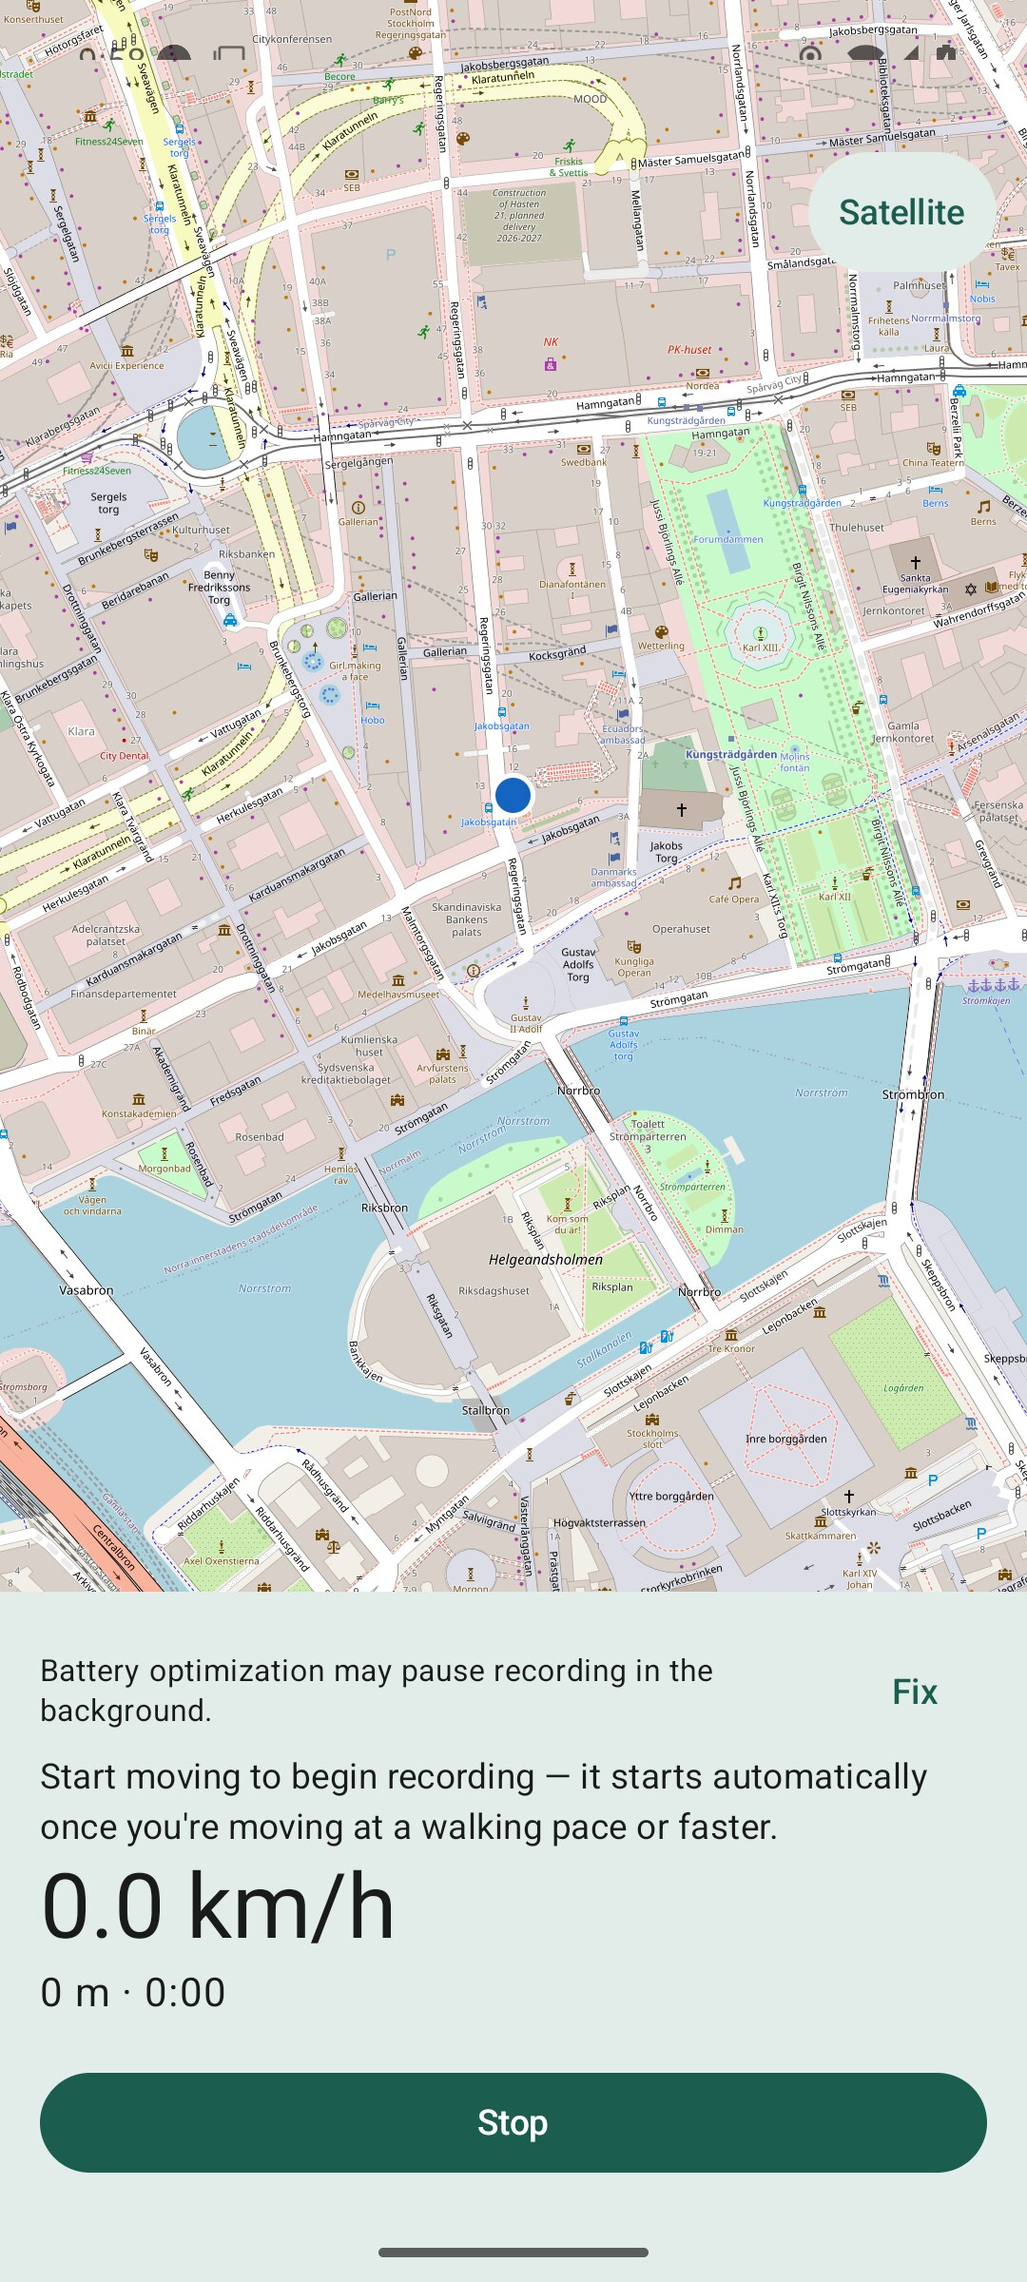
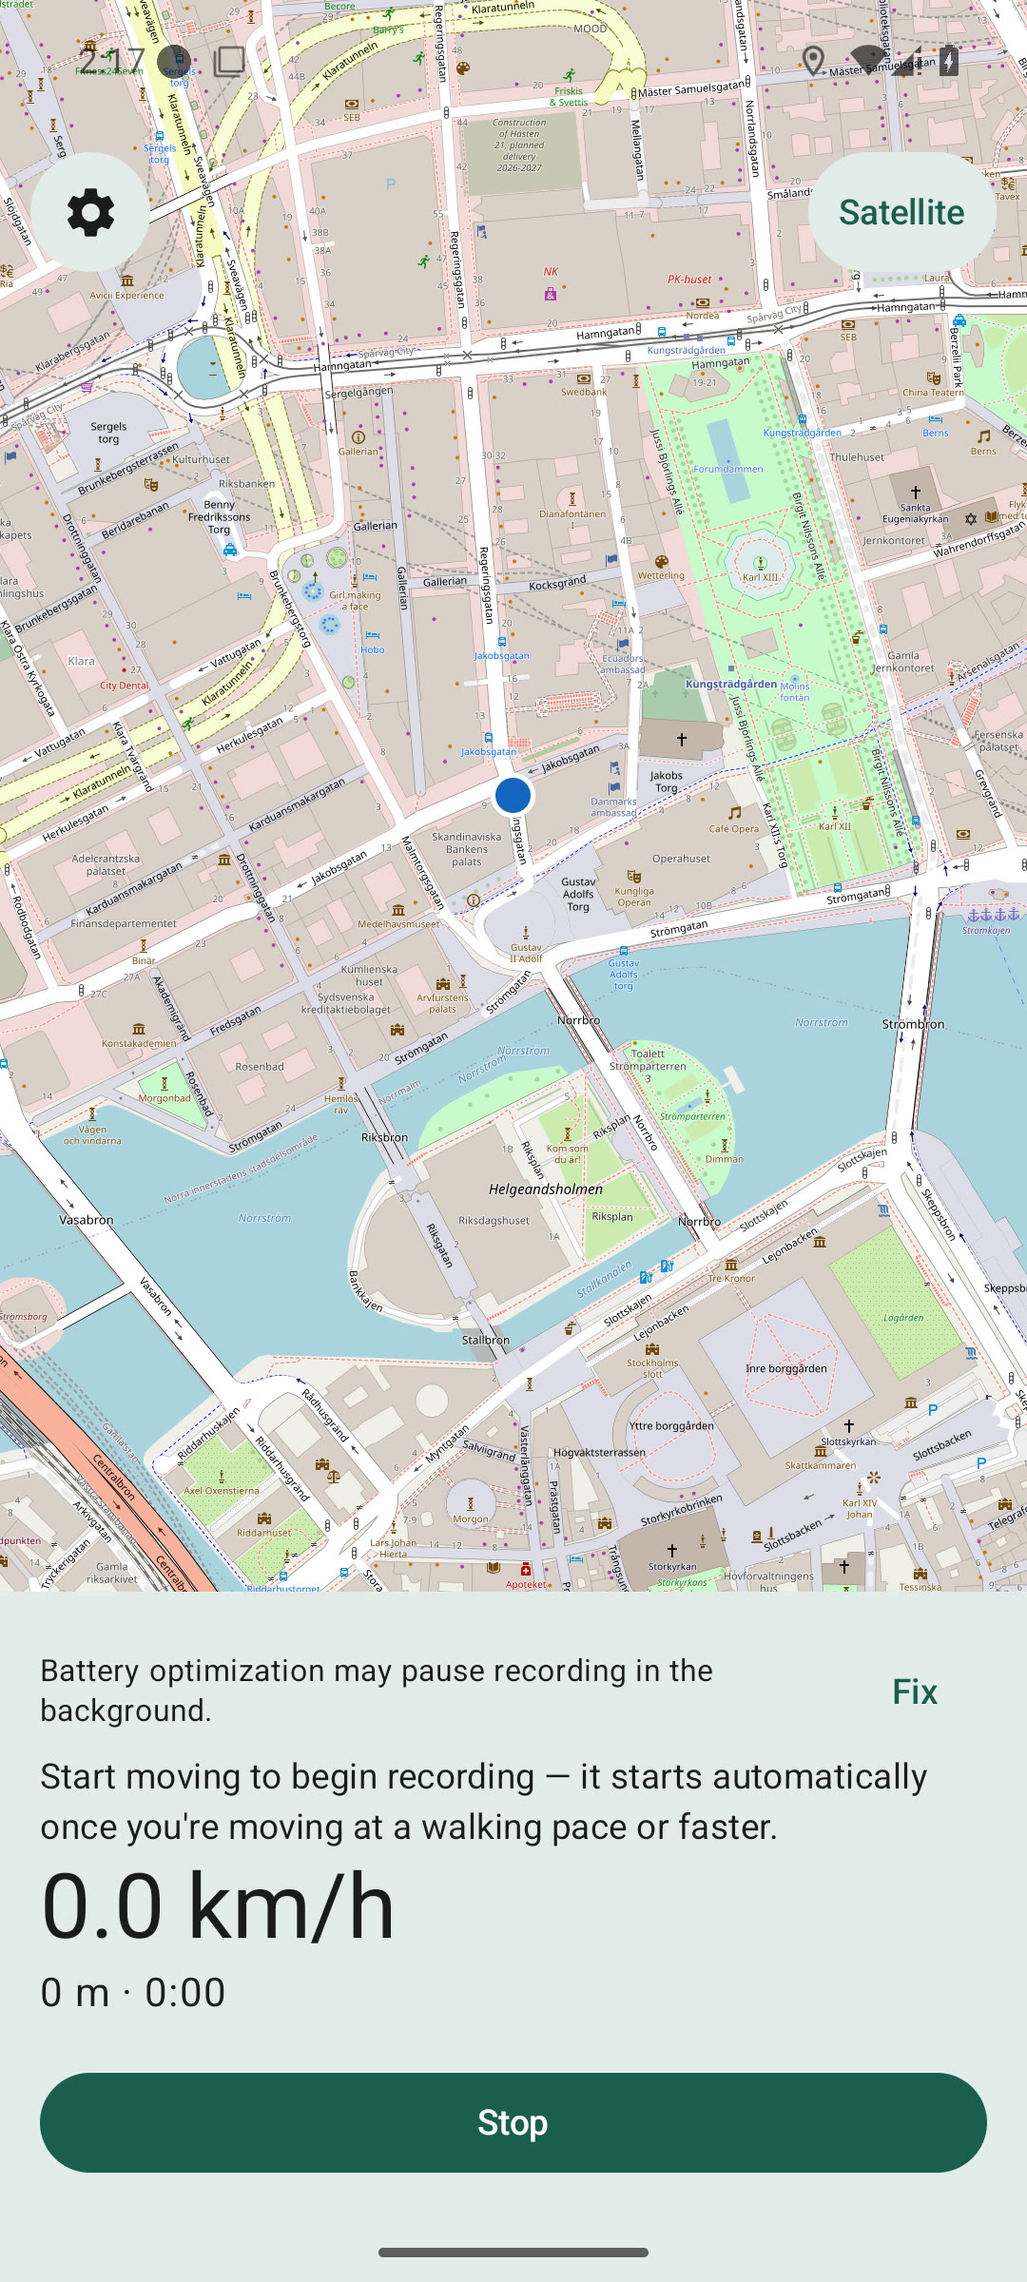
feat(android): show average and fastest km time on Tracking/Detail
Closes #119: Tracking's live stats panel now shows the fastest complete
km alongside the latest one, and Detail's summary shows the session's
average time per kilometer plus its fastest, both derived from the same
km-splits math Km splits already used, just surfaced without opening it.

Also closes #116's follow-up label-clarity request: the voice feedback
settings switches "Average speed"/"Steps" are relabeled "Average speed
per kilometer"/"Steps per kilometer" so they read unambiguously as
per-km values.

Adds the voice feedback settings screen (missed in #118) and the new
Tracking/Detail stats to docs/user-manual.md, and regenerates every
screenshot via a full ScreenshotTest run (see #76 on why partial
refreshes go stale).

diff --git a/android/app/src/main/java/com/github/tomasbjerre/wisp/ui/detail/DetailScreen.kt b/android/app/src/main/java/com/github/tomasbjerre/wisp/ui/detail/DetailScreen.kt
@@ -48,6 +48,7 @@ import com.github.tomasbjerre.wisp.ui.Formatting
 import com.github.tomasbjerre.wisp.ui.common.MapType
 import com.github.tomasbjerre.wisp.ui.common.MapTypeToggle
 import com.github.tomasbjerre.wisp.ui.common.RouteMap
+import com.github.tomasbjerre.wisp.ui.splits.KmSplitRows
 import org.osmdroid.views.MapView
 
 /** See specs/ui-flows.md#3-detail-a-past-or-just-finished-session. */
@@ -97,7 +98,7 @@ fun DetailScreen(
 
             SessionSummaryPanel(
                 session = session,
-                kmSplitCount = kmSplitsSeconds.size,
+                kmSplitsSeconds = kmSplitsSeconds,
                 onOpenKmSplits = onOpenKmSplits,
                 onBack = onBack,
                 onExportImage = {
@@ -168,7 +169,7 @@ private fun DetailMap(
 @Composable
 private fun SessionSummaryPanel(
     session: Session?,
-    kmSplitCount: Int,
+    kmSplitsSeconds: List<Long>,
     onOpenKmSplits: () -> Unit,
     onBack: () -> Unit,
     onExportImage: () -> Unit,
@@ -187,16 +188,19 @@ private fun SessionSummaryPanel(
             val stepsPerMinute = Formatting.stepsPerMinute(session.steps, session.durationSeconds)
             Text(stepsPerMinute, style = MaterialTheme.typography.bodyLarge)
         }
+        // See specs/tracking.md#km-splits. Omitted entirely with no complete km at all,
+        // same reasoning as the steps line above.
+        paceLine(kmSplitsSeconds)?.let { Text(it, style = MaterialTheme.typography.bodyLarge) }
         // See specs/ui-flows.md#4-km-splits: the splits themselves live on their own
         // view (#86) — a list squeezed in here left room for only a few rows, and took
         // that room from the map. Omitted entirely under 1 km, not just disabled.
-        if (kmSplitCount > 0) {
+        if (kmSplitsSeconds.isNotEmpty()) {
             TextButton(
                 onClick = onOpenKmSplits,
                 contentPadding = PaddingValues(0.dp),
                 modifier = Modifier.padding(top = 4.dp),
             ) {
-                Text("Km splits ($kmSplitCount)")
+                Text("Km splits (${kmSplitsSeconds.size})")
                 Icon(Icons.AutoMirrored.Filled.KeyboardArrowRight, contentDescription = null)
             }
         }
@@ -267,3 +271,11 @@ private fun distanceAndDurationLine(session: Session?): String =
 
 private fun speedsLine(session: Session?): String =
     session?.let { "Avg ${Formatting.speedKmh(it.averageSpeedMps)} · Max ${Formatting.speedKmh(it.maxSpeedMps)}" } ?: ""
+
+/** See specs/tracking.md#km-splits. Null with no complete km at all — nothing to say. */
+private fun paceLine(kmSplitsSeconds: List<Long>): String? {
+    val average = KmSplitRows.averageSeconds(kmSplitsSeconds) ?: return null
+    val fastest = KmSplitRows.fastestSeconds(kmSplitsSeconds)
+    val fastestPart = fastest?.let { " · Fastest ${Formatting.duration(it)}/km" } ?: ""
+    return "Avg ${Formatting.duration(average)}/km$fastestPart"
+}

diff --git a/android/app/src/androidTest/java/com/github/tomasbjerre/wisp/ScreenshotTest.kt b/android/app/src/androidTest/java/com/github/tomasbjerre/wisp/ScreenshotTest.kt
@@ -4,6 +4,7 @@ import androidx.compose.ui.test.junit4.createAndroidComposeRule
 import androidx.compose.ui.test.onAllNodesWithTag
 import androidx.compose.ui.test.onAllNodesWithText
 import androidx.compose.ui.test.onFirst
+import androidx.compose.ui.test.onNodeWithContentDescription
 import androidx.compose.ui.test.onNodeWithText
 import androidx.compose.ui.test.performClick
 import androidx.test.ext.junit.runners.AndroidJUnit4
@@ -127,6 +128,18 @@ class ScreenshotTest {
         composeRule.waitForIdle()
     }
 
+    /**
+     * See specs/ui-flows.md#2a-voice-feedback-settings. Unnumbered, same reasoning as
+     * captureKmSplits: the Play listing slots are already spent by "4-tracking-recording".
+     */
+    private fun captureVoiceFeedbackSettings() {
+        composeRule.onNodeWithContentDescription("Voice feedback settings").performClick()
+        composeRule.waitForIdle()
+        screenshot("tracking-voice-feedback-settings")
+        composeRule.onNodeWithContentDescription("Back").performClick()
+        composeRule.waitForIdle()
+    }
+
     private fun captureTrackingStates() {
         // isRecording is true for the whole life of a session (see TrackingService.start)
         // — isLocating and isWaitingForMovement are what actually distinguish these
@@ -152,6 +165,8 @@ class ScreenshotTest {
         }
         composeRule.waitForIdle()
         screenshot("4-tracking-recording")
+
+        captureVoiceFeedbackSettings()
 
         // Satellite map toggle (specs/ui-flows.md#2-tracking-active-recording).
         composeRule.onNodeWithText("Satellite").performClick()

diff --git a/android/app/src/main/java/com/github/tomasbjerre/wisp/ui/splits/KmSplitRows.kt b/android/app/src/main/java/com/github/tomasbjerre/wisp/ui/splits/KmSplitRows.kt
@@ -1,6 +1,7 @@
 package com.github.tomasbjerre.wisp.ui.splits
 
 import com.github.tomasbjerre.wisp.util.GeoUtils
+import kotlin.math.roundToLong
 
 /** One row of the Km splits view — see specs/ui-flows.md#4-km-splits. */
 data class KmSplitRow(
@@ -60,6 +61,26 @@ object KmSplitRows {
         val slowest = seconds.indices.maxBy { seconds[it] }
         return KmSplitExtremes(fastest + 1, seconds[fastest], slowest + 1, seconds[slowest])
     }
+
+    /**
+     * The fastest complete kilometer's own time — same "fewer than two complete
+     * kilometers, nothing to compare" rule as [extremes], just without needing the
+     * partial km around to prove it's excluded. Used where only the km number, not
+     * which km it was, is shown (live on Tracking, and in Detail's summary — see
+     * specs/tracking.md#km-splits).
+     */
+    fun fastestSeconds(completeSeconds: List<Long>): Long? {
+        if (completeSeconds.size < 2) return null
+        return completeSeconds.min()
+    }
+
+    /**
+     * The average time per complete kilometer — null with no complete kilometers at
+     * all. Unlike [fastestSeconds], one complete km is enough to average (there's
+     * nothing to compare it against, but it's still a real per-km time).
+     */
+    fun averageSeconds(completeSeconds: List<Long>): Long? =
+        if (completeSeconds.isEmpty()) null else completeSeconds.average().roundToLong()
 
     private fun speedMps(
         meters: Double,

diff --git a/android/app/src/test/java/com/github/tomasbjerre/wisp/ui/splits/KmSplitRowsTest.kt b/android/app/src/test/java/com/github/tomasbjerre/wisp/ui/splits/KmSplitRowsTest.kt
@@ -70,4 +70,25 @@ class KmSplitRowsTest {
     fun `fewer than two complete km has nothing to compare`() {
         assertThat(KmSplitRows.extremes(GeoUtils.KmSplits(listOf(300L), GeoUtils.PartialSplit(500.0, 100L)))).isNull()
     }
+
+    @Test
+    fun `fastest seconds is the lowest complete km duration`() {
+        assertThat(KmSplitRows.fastestSeconds(listOf(310L, 290L, 330L))).isEqualTo(290L)
+    }
+
+    @Test
+    fun `fastest seconds is null with fewer than two complete km`() {
+        assertThat(KmSplitRows.fastestSeconds(listOf(300L))).isNull()
+        assertThat(KmSplitRows.fastestSeconds(emptyList())).isNull()
+    }
+
+    @Test
+    fun `average seconds rounds the mean of every complete km`() {
+        assertThat(KmSplitRows.averageSeconds(listOf(300L, 250L, 260L))).isEqualTo(270L)
+    }
+
+    @Test
+    fun `average seconds is null with no complete km at all`() {
+        assertThat(KmSplitRows.averageSeconds(emptyList())).isNull()
+    }
 }

diff --git a/android/app/src/main/java/com/github/tomasbjerre/wisp/location/TrackingService.kt b/android/app/src/main/java/com/github/tomasbjerre/wisp/location/TrackingService.kt
@@ -14,6 +14,7 @@ import androidx.lifecycle.lifecycleScope
 import com.github.tomasbjerre.wisp.MainActivity
 import com.github.tomasbjerre.wisp.R
 import com.github.tomasbjerre.wisp.WispApplication
+import com.github.tomasbjerre.wisp.ui.splits.KmSplitRows
 import com.github.tomasbjerre.wisp.util.GeoUtils
 import kotlinx.coroutines.CoroutineScope
 import kotlinx.coroutines.Dispatchers
@@ -236,6 +237,7 @@ class TrackingService : LifecycleService() {
                     route = points.map { p -> LatLon(p.latitude, p.longitude) },
                     steps = stepRecorder.steps,
                     latestKmSplitSeconds = splits.completeSeconds.lastOrNull(),
+                    fastestKmSplitSeconds = KmSplitRows.fastestSeconds(splits.completeSeconds),
                 )
             }
             announceNewlyCompletedKm(splits)

diff --git a/android/app/src/main/java/com/github/tomasbjerre/wisp/ui/tracking/VoiceFeedbackSettingsScreen.kt b/android/app/src/main/java/com/github/tomasbjerre/wisp/ui/tracking/VoiceFeedbackSettingsScreen.kt
@@ -67,14 +67,14 @@ fun VoiceFeedbackSettingsScreen(
                 testTag = TestTags.VOICE_FEEDBACK_ANNOUNCE_KM_SWITCH,
             )
             SettingSwitchRow(
-                label = "Average speed",
+                label = "Average speed per kilometer",
                 checked = settings.announceSpeed,
                 enabled = settings.enabled,
                 onCheckedChange = preferences::setAnnounceSpeed,
                 testTag = TestTags.VOICE_FEEDBACK_ANNOUNCE_SPEED_SWITCH,
             )
             SettingSwitchRow(
-                label = "Steps",
+                label = "Steps per kilometer",
                 checked = settings.announceSteps,
                 enabled = settings.enabled,
                 onCheckedChange = preferences::setAnnounceSteps,

diff --git a/android/app/src/main/java/com/github/tomasbjerre/wisp/ui/tracking/TrackingScreen.kt b/android/app/src/main/java/com/github/tomasbjerre/wisp/ui/tracking/TrackingScreen.kt
@@ -189,6 +189,11 @@ private fun TrackingStatsPanel(
             state.latestKmSplitSeconds?.let { seconds ->
                 Text("Last km: ${Formatting.duration(seconds)}", style = MaterialTheme.typography.bodyLarge)
             }
+            // See specs/tracking.md#km-splits: null until a second complete km exists to
+            // compare against, same threshold as Detail/Km splits' fastest/slowest.
+            state.fastestKmSplitSeconds?.let { seconds ->
+                Text("Fastest km: ${Formatting.duration(seconds)}", style = MaterialTheme.typography.bodyLarge)
+            }
             TrackingControls(isPaused = state.isPaused, isWaitingForMovement = state.isWaitingForMovement)
         }
     }

diff --git a/android/app/src/main/java/com/github/tomasbjerre/wisp/location/TrackingUiState.kt b/android/app/src/main/java/com/github/tomasbjerre/wisp/location/TrackingUiState.kt
@@ -26,4 +26,7 @@ data class TrackingUiState(
     // See specs/tracking.md#km-splits. Only the most recently completed split — the
     // full list is Detail's job, live Tracking only ever needs "how was that last km".
     val latestKmSplitSeconds: Long? = null,
+    // See specs/tracking.md#km-splits. Null until a second complete km exists to compare
+    // against — same threshold as Detail/Km splits' fastest/slowest.
+    val fastestKmSplitSeconds: Long? = null,
 )

diff --git a/docs/user-manual.md b/docs/user-manual.md
@@ -80,11 +80,12 @@ A few more things on this screen:
   the map switches between the standard street map and a satellite view,
   useful for checking terrain. It resets back to the standard map next
   time you start a new activity.
-- **Steps and last km split** — once you have a step count or have
-  completed at least one kilometer, this screen also shows your current
-  steps/minute and how long that last kilometer took. (Not every phone
-  has a step-count sensor — if yours doesn't, or the permission wasn't
-  granted, this line simply doesn't appear.)
+- **Steps and km splits** — once you have a step count or have completed
+  at least one kilometer, this screen also shows your current
+  steps/minute, how long that last kilometer took, and (once you've
+  completed a second one) your fastest kilometer so far. (Not every
+  phone has a step-count sensor — if yours doesn't, or the permission
+  wasn't granted, the steps line simply doesn't appear.)
 - **Pause / Continue** — pauses recording without ending the activity;
   tap Continue to resume. Wisp also pauses automatically if you stop
   moving for a while (about 15 seconds) — same button, same behavior,
@@ -101,6 +102,20 @@ A few more things on this screen:
   (finalize the activity and navigate on) rather than silently leaving
   it running in the background — there's no way to abandon a recording
   session with a stray back tap.
+- **Voice feedback settings** — the gear icon opens a settings screen for
+  optional spoken announcements (handy with earbuds, so you get progress
+  updates without looking at your phone):
+
+  <img src="screenshots/tracking-voice-feedback-settings.jpg" alt="Voice feedback settings screen" width="300">
+
+  A master **Voice feedback** switch, off by default, plus four switches
+  for what each announcement includes: **Kilometers completed**,
+  **Average speed per kilometer**, **Steps per kilometer** (hidden when
+  your session has no step count at all), and **Elapsed time** (the
+  session's total, not just the last kilometer's). Announcements happen
+  once per completed kilometer, only while actively recording (not
+  paused). Every switch persists across app restarts and takes effect
+  immediately, even mid-session.
 
 Here's the satellite view from the toggle mentioned above:
 
@@ -121,7 +136,9 @@ just-finished:
   <img src="screenshots/detail-satellite.jpg" alt="Detail screen with the satellite map view" width="300">
 
 - **Summary stats** — date/time, nearest city, distance, duration,
-  average and max speed, and (when available) steps/minute.
+  average and max speed, (when available) steps/minute, and (once
+  you've completed at least one kilometer) your average time per
+  kilometer, plus your fastest one once you've completed a second.
 - **Km splits (N)** — opens the [Km splits](#km-splits) view, N being
   the number of complete kilometers. Shown only once you've covered at
   least 1 km.

diff --git a/specs/ui-flows.md b/specs/ui-flows.md
@@ -70,12 +70,13 @@ screen while recording.
 - A live stats panel below the map (not laid over it — see
   [Accessibility](accessibility.md#text-contrast)): current speed,
   elapsed distance, elapsed time — all zero while waiting for movement.
-  Also steps per minute (see [Tracking](tracking.md#step-count)) and the
-  most recently completed kilometer split (see
-  [Tracking](tracking.md#km-splits)) — each omitted until there's one to
-  show, same as Detail. Unlike Detail, only the latest split is shown,
-  not the full list — there's no room for a growing list on this screen,
-  and "how was that last km" is what's actually useful mid-run.
+  Also steps per minute (see [Tracking](tracking.md#step-count)), the
+  most recently completed kilometer split, and the fastest complete km
+  so far (see [Tracking](tracking.md#km-splits)) — each omitted until
+  there's one to show, same as Detail. Unlike Detail, only the latest
+  and fastest splits are shown, not the full list — there's no room for
+  a growing list on this screen, and "how was that last km, and is it
+  my best one" is what's actually useful mid-run.
 - A **Pause**/**Continue** control (labeled Continue while paused) and a
   **Stop** control, both visible together at all times once recording has
   actually started — recording or paused, it's always exactly these two
@@ -106,7 +107,8 @@ full contract.
   same).
 - A **Voice feedback** master switch.
 - Four switches choosing what each announcement includes: **Kilometers
-  completed**, **Average speed**, **Steps**, **Elapsed time**.
+  completed**, **Average speed per kilometer**, **Steps per kilometer**,
+  **Elapsed time**.
 - Every switch reflects and immediately persists its current setting —
   no separate Save action.
 
@@ -121,7 +123,10 @@ full contract.
   city if known (see [Data Model](data-model.md#session)), distance,
   duration, average speed, max speed, steps per minute (see
   [Tracking](tracking.md#step-count) — omitted entirely when the session
-  has no step count).
+  has no step count), and average time per kilometer plus the fastest
+  one's own time (see [Tracking](tracking.md#km-splits) — average
+  omitted with no complete km at all, fastest omitted with fewer than
+  two).
 - Below the summary stats, a **Km splits (N)** link — N being the number
   of complete kilometers — opening the [Km splits](#4-km-splits) view.
   The splits themselves aren't listed here: this panel shares the screen

diff --git a/specs/tracking.md b/specs/tracking.md
@@ -151,6 +151,19 @@ that session's Detail screen.
   [Tracking](ui-flows.md#2-tracking-active-recording) (only the most
   recently completed one) so a user can see which parts of the activity
   were faster or slower.
+- The **fastest** complete km's own time is also shown live on
+  [Tracking](ui-flows.md#2-tracking-active-recording), next to the
+  latest split — null (nothing shown) until a second complete km exists
+  to compare against, the same threshold as the Km splits view's
+  fastest/slowest (below).
+- [Detail](ui-flows.md#3-detail-a-past-or-just-finished-session)'s
+  summary also shows the session's **average time per kilometer**
+  (across every complete km) and, once there are at least two to
+  compare, the **fastest** one's own time — the same values the Km
+  splits view lets someone read kilometer by kilometer, surfaced
+  without having to open it. Omitted entirely with no complete km at
+  all (average) or fewer than two (fastest), same as the live Tracking
+  case above.
 - Computed from the session's recorded points on demand (not stored
   alongside the session, unlike distance/duration/speed) — points are
   already loaded to draw the route on Detail, and already held in memory

diff --git a/specs/voice-feedback.md b/specs/voice-feedback.md
@@ -13,8 +13,10 @@ why this is configurable at all, unlike almost everything else in Wisp.
 - Four independent switches choose what's included in each announcement
   (below), all on by default the first time voice feedback is turned on:
   - **Kilometers completed** — the running count of complete kilometers.
-  - **Average speed** — over the kilometer that was just completed.
-  - **Steps** — taken over the kilometer that was just completed (see
+  - **Average speed per kilometer** — labeled to make clear this is the
+    kilometer that was just completed, not an overall average.
+  - **Steps per kilometer** — labeled to make clear this is the
+    kilometer that was just completed, not a running total (see
     [Tracking](tracking.md#step-count)). Never included when the session
     has no step count at all, regardless of this switch — there's
     nothing to say.
